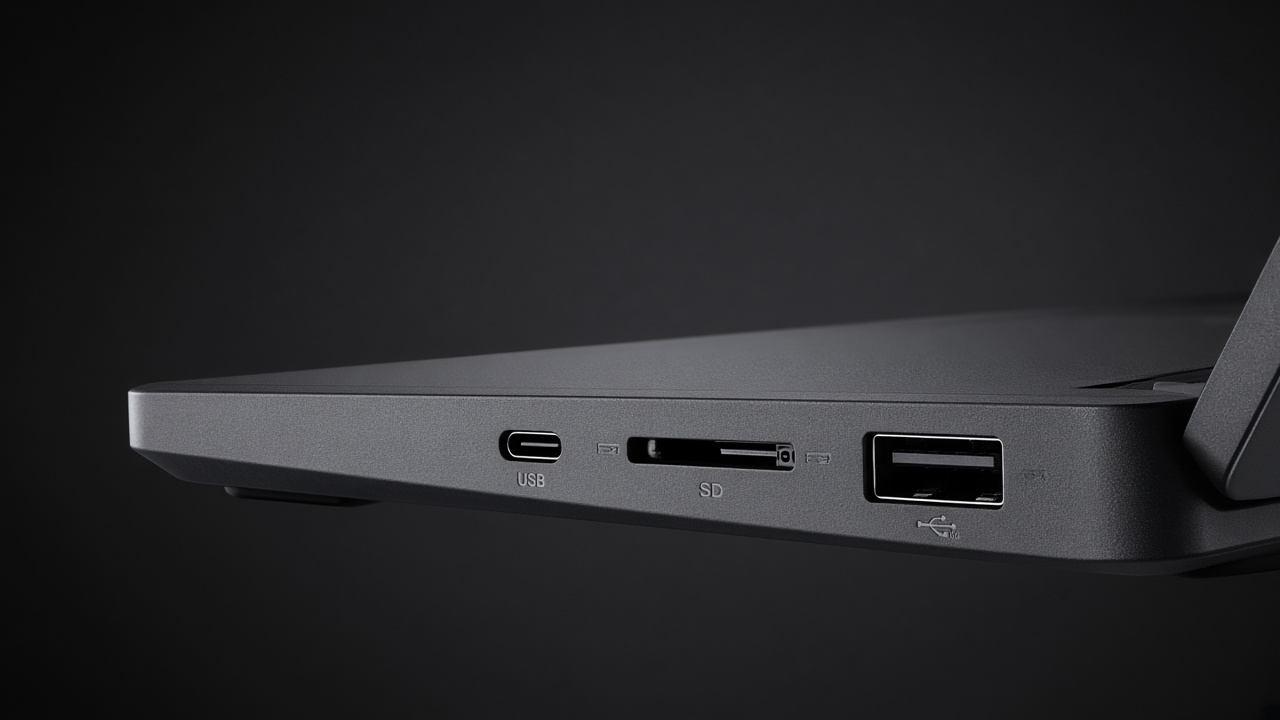
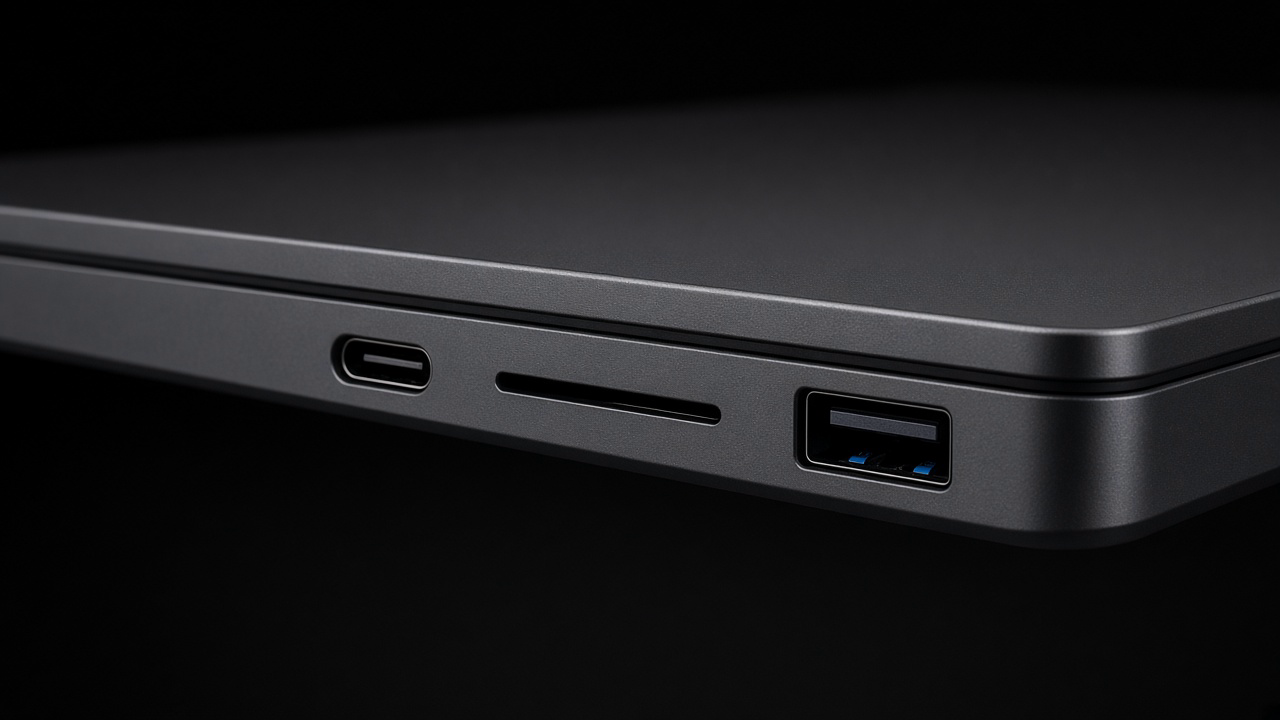
Use photo-grade product panels and rematch port hotspots
Replace placeholder shots with the photo-grade eight-panel pack and recalibrate hotspots onto the real jacks.

diff --git a/js/app.js b/js/app.js
@@ -31,14 +31,14 @@
         { id: "rear", label: "Back", file: "optiplex-rear.png" }
       ],
       ports: [
-        { id: "opti-ac", kind: "power", label: "IEC C13 AC in", chip: "IEC C13", face: "rear", box: [14, 52, 11, 16], ticket: "Tower PSU cord. Seat in a battery-backed UPS outlet, not surge-only." },
-        { id: "opti-pwrbtn", kind: "power", label: "Power button", chip: "Power", face: "front", box: [18, 58, 9, 14], ticket: "Front power. Confirm the PSU switch (if present) is on before this." },
-        { id: "opti-dp", kind: "video", label: "DP out", chip: "DP out", face: "rear", box: [29, 60, 8, 9], ticket: "DisplayPort out on the tower. Use if this desk is tower-to-monitor, not docked." },
-        { id: "opti-hdmi", kind: "video", label: "HDMI out", chip: "HDMI out", face: "rear", box: [29, 50, 8, 9], ticket: "HDMI out on the tower. Fallback if the monitor has no DP." },
-        { id: "opti-rj45", kind: "net", label: "RJ45", chip: "RJ45", face: "rear", box: [39, 54, 8, 11], ticket: "Onboard NIC. Ignore if the client is supposed to be on the WD19 LAN." },
-        { id: "opti-usbc", kind: "usbc", label: "USB-C", chip: "USB-C", face: "front", box: [45, 52, 8, 18], ticket: "Chassis USB-C. Not the dock upstream." },
-        { id: "opti-usba", kind: "usb", label: "USB-A", chip: "USB-A", face: "front", box: [32, 52, 10, 14], ticket: "Keyboard / mouse / keys. Do not chase video here." },
-        { id: "opti-audio", kind: "audio", label: "Line-out / mic", chip: "3.5 mm", face: "rear", box: [71, 52, 9, 16], ticket: "3.5 mm analog. Headset issues are here or on the dock, not the monitor." }
+        { id: "opti-ac", kind: "power", label: "IEC C13 AC in", chip: "IEC C13", face: "rear", box: [36, 52, 11, 16], ticket: "Tower PSU cord. Seat in a battery-backed UPS outlet, not surge-only." },
+        { id: "opti-pwrbtn", kind: "power", label: "Power button", chip: "Power", face: "front", box: [20, 64, 7, 12], ticket: "Front power. Confirm the PSU switch (if present) is on before this." },
+        { id: "opti-dp", kind: "video", label: "DP out", chip: "DP out", face: "rear", box: [47, 59, 6, 8], ticket: "DisplayPort out on the tower. Use if this desk is tower-to-monitor, not docked." },
+        { id: "opti-hdmi", kind: "video", label: "HDMI out", chip: "HDMI out", face: "rear", box: [47, 50, 6, 8], ticket: "HDMI out on the tower. Fallback if the monitor has no DP." },
+        { id: "opti-rj45", kind: "net", label: "RJ45", chip: "RJ45", face: "rear", box: [53, 54, 6, 10], ticket: "Onboard NIC. Ignore if the client is supposed to be on the WD19 LAN." },
+        { id: "opti-usbc", kind: "usbc", label: "USB-C", chip: "USB-C", face: "front", box: [50, 64, 16, 12], ticket: "Chassis USB-C. Not the dock upstream." },
+        { id: "opti-usba", kind: "usb", label: "USB-A", chip: "USB-A", face: "front", box: [31, 62, 10, 14], ticket: "Keyboard / mouse / keys. Do not chase video here." },
+        { id: "opti-audio", kind: "audio", label: "Line-out / mic", chip: "3.5 mm", face: "rear", box: [80, 48, 10, 18], ticket: "3.5 mm analog. Headset issues are here or on the dock, not the monitor." }
       ]
     },
     precision: {
@@ -53,13 +53,13 @@
         { id: "right", label: "Right", file: "precision-right.png" }
       ],
       ports: [
-        { id: "prec-tb1", kind: "usbc", label: "USB-C / TB (dock upstream)", chip: "USB-C / TB", face: "left", box: [18, 56, 11, 14], ticket: "Primary Thunderbolt / USB-C. This is where the WD19 upstream cable seats." },
-        { id: "prec-tb2", kind: "usbc", label: "USB-C / TB (alt)", chip: "USB-C / TB", face: "right", box: [34, 54, 11, 14], ticket: "Second TB port. Try this if the first will not charge or show video." },
-        { id: "prec-dc", kind: "power", label: "Barrel / DC-in", chip: "DC-in", ticket: "Slim brick on the chassis. Use only if they are off-dock. On-dock, ignore this." },
-        { id: "prec-hdmi", kind: "video", label: "HDMI out", chip: "HDMI out", face: "left", box: [50, 54, 15, 14], ticket: "Laptop HDMI. Bypass the dock if you need a known-good video path." },
-        { id: "prec-usba", kind: "usb", label: "USB-A", chip: "USB-A", face: "left", box: [34, 56, 11, 14], ticket: "Direct USB-A on the chassis." },
-        { id: "prec-sd", kind: "usb", label: "SD card", chip: "SD", face: "right", box: [48, 54, 13, 14], ticket: "SD reader. Not power, not video." },
-        { id: "prec-audio", kind: "audio", label: "3.5 mm combo", chip: "3.5 mm", face: "left", box: [70, 56, 9, 14], ticket: "Headset jack on the laptop." }
+        { id: "prec-tb1", kind: "usbc", label: "USB-C / TB (dock upstream)", chip: "USB-C / TB", face: "left", box: [20, 54, 8, 12], ticket: "Primary Thunderbolt / USB-C. This is where the WD19 upstream cable seats." },
+        { id: "prec-tb2", kind: "usbc", label: "USB-C / TB (alt)", chip: "USB-C / TB", face: "right", box: [27, 50, 10, 14], ticket: "Second TB port. Try this if the first will not charge or show video." },
+        { id: "prec-dc", kind: "power", label: "Barrel / DC-in", chip: "DC-in", ticket: "Slim brick on the chassis. Use only if they are off-dock. On-dock, ignore this. This Precision charges on the TB USB-C." },
+        { id: "prec-hdmi", kind: "video", label: "HDMI out", chip: "HDMI out", face: "left", box: [42, 52, 14, 14], ticket: "Laptop HDMI. Bypass the dock if you need a known-good video path." },
+        { id: "prec-usba", kind: "usb", label: "USB-A", chip: "USB-A", face: "left", box: [30, 54, 10, 12], ticket: "Direct USB-A on the chassis." },
+        { id: "prec-sd", kind: "usb", label: "SD card", chip: "SD", face: "right", box: [42, 52, 16, 10], ticket: "SD reader. Not power, not video." },
+        { id: "prec-audio", kind: "audio", label: "3.5 mm combo", chip: "3.5 mm", face: "left", box: [62, 54, 8, 12], ticket: "Headset jack on the laptop." }
       ]
     },
     wd19: {
@@ -74,15 +74,15 @@
         { id: "rear", label: "Back", file: "wd19-rear.png" }
       ],
       ports: [
-        { id: "wd19-dc", kind: "power", label: "Barrel / DC-in", chip: "Barrel/DC-in", face: "rear", box: [13, 37, 8, 12], ticket: "That's power on the WD19 — pull that one. 180W brick. Round jack. Not USB-C." },
-        { id: "wd19-upstream", kind: "usbc", label: "USB-C upstream (to laptop)", chip: "USB-C up", face: "rear", box: [21, 41, 7, 10], ticket: "Thick cable, dock → Precision TB port. Charging and video ride this hop." },
-        { id: "wd19-dp1", kind: "video", label: "DP out (to monitor)", chip: "DP out", face: "rear", box: [30, 34, 9, 9], ticket: "DisplayPort out on the dock. Lands on monitor DP in." },
-        { id: "wd19-dp2", kind: "video", label: "DP out 2", chip: "DP 2", face: "rear", box: [30, 45, 9, 9], ticket: "Second DP. Dual-display desks use this plus DP 1 or HDMI." },
-        { id: "wd19-hdmi", kind: "video", label: "HDMI out (to monitor)", chip: "HDMI out", face: "rear", box: [42, 43, 9, 10], ticket: "HDMI out on the dock. Match the monitor HDMI in and the monitor source." },
-        { id: "wd19-rj45", kind: "net", label: "RJ45", chip: "RJ45", face: "rear", box: [53, 39, 8, 12], ticket: "Dock NIC. Confirm the drop is here if the ticket is 'no LAN on dock'." },
-        { id: "wd19-usbc", kind: "usbc", label: "USB-C downstream", chip: "USB-C down", face: "front", box: [37, 47, 9, 12], ticket: "Peripherals only. Will not power the dock or the laptop." },
-        { id: "wd19-usba", kind: "usb", label: "USB-A", chip: "USB-A", face: "rear", box: [63, 36, 9, 18], ticket: "Keyboard / mouse / keys on the dock." },
-        { id: "wd19-audio", kind: "audio", label: "3.5 mm", chip: "3.5 mm", face: "rear", box: [73, 45, 6, 10], ticket: "Dock analog audio." }
+        { id: "wd19-dc", kind: "power", label: "Barrel / DC-in", chip: "Barrel/DC-in", face: "rear", box: [10.5, 44, 7, 14], ticket: "That's power on the WD19 — pull that one. 180W brick. Round jack. Not USB-C." },
+        { id: "wd19-upstream", kind: "usbc", label: "USB-C upstream (to laptop)", chip: "USB-C up", face: "front", box: [36, 46, 9, 12], ticket: "Thick cable, dock → Precision TB port. Charging and video ride this hop." },
+        { id: "wd19-dp1", kind: "video", label: "DP out (to monitor)", chip: "DP out", face: "rear", box: [30, 50, 9, 8], ticket: "DisplayPort out on the dock. Lands on monitor DP in." },
+        { id: "wd19-dp2", kind: "video", label: "DP out 2", chip: "DP 2", face: "rear", box: [30, 40, 9, 8], ticket: "Second DP. Dual-display desks use this plus DP 1 or HDMI." },
+        { id: "wd19-hdmi", kind: "video", label: "HDMI out (to monitor)", chip: "HDMI out", face: "rear", box: [42, 47, 9, 9], ticket: "HDMI out on the dock. Match the monitor HDMI in and the monitor source." },
+        { id: "wd19-rj45", kind: "net", label: "RJ45", chip: "RJ45", face: "rear", box: [54, 44, 8, 13], ticket: "Dock NIC. Confirm the drop is here if the ticket is 'no LAN on dock'." },
+        { id: "wd19-usbc", kind: "usbc", label: "USB-C downstream", chip: "USB-C down", face: "rear", box: [21.5, 47, 6, 9], ticket: "Peripherals only. Will not power the dock or the laptop." },
+        { id: "wd19-usba", kind: "usb", label: "USB-A", chip: "USB-A", face: "rear", box: [69, 40, 9, 18], ticket: "Keyboard / mouse / keys on the dock." },
+        { id: "wd19-audio", kind: "audio", label: "3.5 mm", chip: "3.5 mm", face: "rear", box: [74, 46, 6, 10], ticket: "Dock analog audio." }
       ]
     },
     monitor: {
@@ -96,10 +96,10 @@
         { id: "rear", label: "Back", file: "monitor-rear.png" }
       ],
       ports: [
-        { id: "mon-ac", kind: "power", label: "IEC AC in", chip: "IEC AC", face: "rear", box: [16, 34, 16, 22], ticket: "Monitor power cord. Confirm the rocker / soft-power and the OSD is not in standby." },
-        { id: "mon-dp", kind: "video", label: "DP in", chip: "DP in", face: "rear", box: [42, 36, 12, 18], ticket: "DisplayPort in. Must match a DP out on the WD19 or the OptiPlex." },
-        { id: "mon-hdmi", kind: "video", label: "HDMI in", chip: "HDMI in", face: "rear", box: [56, 36, 12, 18], ticket: "HDMI in. Set OSD source to HDMI if that is the cable in use." },
-        { id: "mon-usbc", kind: "usbc", label: "USB-C (video + power)", chip: "USB-C", face: "rear", box: [70, 36, 10, 18], ticket: "USB-C video on some P-series. Not the WD19 upstream." },
+        { id: "mon-ac", kind: "power", label: "IEC AC in", chip: "IEC AC", face: "rear", box: [18, 36, 14, 22], ticket: "Monitor power cord. Confirm the rocker / soft-power and the OSD is not in standby." },
+        { id: "mon-dp", kind: "video", label: "DP in", chip: "DP in", face: "rear", box: [38, 40, 10, 16], ticket: "DisplayPort in. Must match a DP out on the WD19 or the OptiPlex." },
+        { id: "mon-hdmi", kind: "video", label: "HDMI in", chip: "HDMI in", face: "rear", box: [50, 40, 11, 16], ticket: "HDMI in. Set OSD source to HDMI if that is the cable in use." },
+        { id: "mon-usbc", kind: "usbc", label: "USB-C (video + power)", chip: "USB-C", face: "rear", box: [64, 42, 9, 14], ticket: "USB-C video on some P-series. Not the WD19 upstream." },
         { id: "mon-usbb", kind: "usb", label: "USB-B upstream", ticket: "Legacy hub uplink to the PC. Needed only if hub ports on the monitor are dead." },
         { id: "mon-usba", kind: "usb", label: "USB-A downstream", ticket: "Monitor hub ports. They stay dead until USB-B / USB-C uplink is seated." }
       ]
@@ -116,9 +116,9 @@
       ],
       ports: [
         { id: "ups-acin", kind: "power", label: "AC in (wall)", ticket: "UPS line cord to the wall. If the wall is dead, the UPS is a battery with a clock." },
-        { id: "ups-switch", kind: "power", label: "Power switch", chip: "Switch", face: "front", box: [11, 22, 11, 16], ticket: "Master switch. Many units sit in standby with no output until this is on." },
-        { id: "ups-out-batt", kind: "power", label: "AC out (battery-backed)", chip: "Battery-backed", face: "front", box: [36, 28, 34, 42], ticket: "Battery-backed bank. Tower PSU and WD19 brick go here." },
-        { id: "ups-out-dock", kind: "power", label: "AC out (dock brick)", chip: "Dock brick", face: "front", box: [70, 28, 18, 42], ticket: "Second battery-backed outlet. WD19 180W brick — not a surge-only tap." },
+        { id: "ups-switch", kind: "power", label: "Power switch", chip: "Switch", face: "front", box: [12, 20, 8, 12], ticket: "Master switch. Many units sit in standby with no output until this is on." },
+        { id: "ups-out-batt", kind: "power", label: "AC out (battery-backed)", chip: "Battery-backed", face: "front", box: [18, 50, 40, 34], ticket: "Battery-backed bank. Tower PSU and WD19 brick go here." },
+        { id: "ups-out-dock", kind: "power", label: "AC out (dock brick)", chip: "Dock brick", face: "front", box: [58, 50, 24, 34], ticket: "Second battery-backed outlet. WD19 180W brick — not a surge-only tap." },
         { id: "ups-out-surge", kind: "power", label: "AC out (surge-only)", ticket: "Surge-only. Do not park the tower or the dock brick here." },
         { id: "ups-usb", kind: "usb", label: "USB-B management", ticket: "Optional NUT / vendor agent. Not required for AC output." }
       ]
@@ -174,7 +174,7 @@
       needs: ["wd19", "precision"],
       device: "wd19",
       port: "wd19-upstream",
-      face: "rear",
+      face: "front",
       ports: ["wd19-upstream", "prec-tb1", "prec-tb2", "wd19-dc"],
       cables: ["dock-upstream"],
       coach: "Charging rides USB-C upstream. Reseat the thick cable at the dock and at the Precision TB port.",

diff --git a/tests/app.test.js b/tests/app.test.js
@@ -46,7 +46,7 @@ test("playbook coach lands on a real photo hotspot", () => {
   const cases = [
     ["dock-power", "wd19-dc", "rear"],
     ["no-display", "wd19-dp1", "rear"],
-    ["no-charge", "wd19-upstream", "rear"],
+    ["no-charge", "wd19-upstream", "front"],
     ["dead-desk", "ups-switch", "front"]
   ];
   cases.forEach(([id, portId, face]) => {
